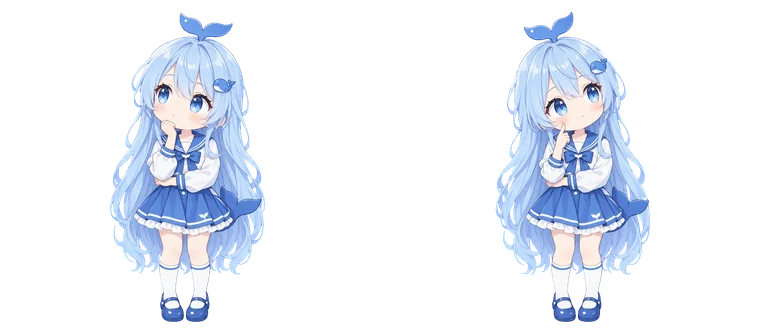
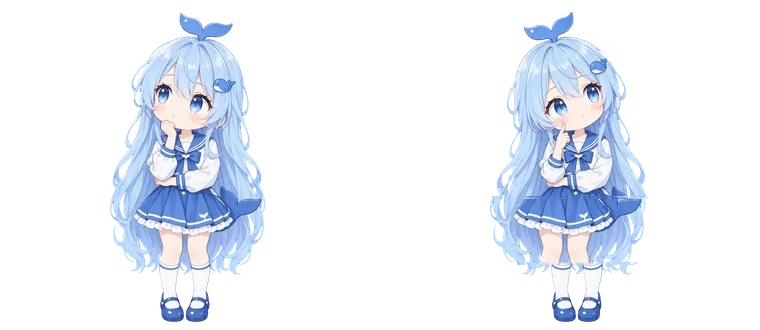
八张立绘的裙摆：同一张动画的两帧之间强制一致（一次性修补）
用户报「我们这些鲸鱼娘动画的裙子上的图案好像都有些不一致」。量九张：两帧之间裙摆那一段
差异 781～4633 个像素，而且不只是图案——模型把裙子本身画成了两种设计（一帧白色荷叶边、
另一帧直摆白线），轮廓差占裙面 9%～37%。

这八张的源图早就不在了，没法用 whale-sprite.py 重切，所以新增一次性工具
tools/whale-freeze-band.py：从裙摆那一段整段取自第一帧（连轮廓一起换，两帧这一块完全一致），
腿和手里的道具不碰。两件事都不写死，切线还要做渐变：

- 切在哪一行：第 182～204 行之间挑"跨线差 ÷ 画面自然差"最小的一条，上下各三行渐变。
  第一帧的裙腰常比第二帧高一两行，硬切就是一条看得见的横线（实测读书那张跨线差 65、
  自然差只有 14）。
- 冻到哪一行：从第 200 行往下找"最后一行宽度还达最宽处 60%"的位置当裙边，再往下是腿。

结果：待命、读书、打字、检查、思考、等太久六张的裙摆差异（781～4633）全部归零；腰部动作
保留（打字 2785→2469，只少被冻住的那五行，手和键盘都在线上）。说话本来就一致（0 个差异），
待命只差 4 个像素。**跑和冲刺按设计不动**：这两张两帧的裙子整体在动（轮廓差占裙面 31.8%、
70.7%），冻了会把画面撕开，而且跑本来就该让裙摆跟着腿荡；跑到髋部那一段的半冻也一并放弃，
半冻不如不动。

接缝复检改成看现象而不是看数字：只在同一帧内部找局部异常行（某行落差超过周围常态的四倍
或 +35），第二帧有、第一帧没有的才算冻出来的缝，七张全过。过程中两次量错了对象，两条教训
（判据别把要修的东西当成不能修的理由；前后对比先确认量的是同一个对象）记在 tasks/lessons.md。

Changed region(s): [[0.6355, 0.5758, 0.8776, 0.8182]]

diff --git a/tools/whale-freeze-band.py b/tools/whale-freeze-band.py
@@ -1,0 +1,158 @@
+#!/usr/bin/env python3
+# -*- coding: utf-8 -*-
+"""把一帧立绘的**裙摆那一段**从第一帧对齐到第二帧。
+
+为什么是一次性工具：一格出两帧的生成图里，两格是各画一遍，裙摆的图案和裙边会各差一点，
+严重的时候干脆是两种设计（一边白色荷叶边、一边直摆白线）。新出的立绘在切图时用
+whale-sprite.py 的 --freeze-below 就能解决；**已经切好的那八张，源图早就不在了**，只能在
+切好的 760×330 上做同样的事，于是有了这个。
+
+用法：python tools/whale-freeze-band.py lib/art/work-2-reading.webp [--dry-run]
+
+两件事都不写死：
+
+* 切在哪一行——在第 182～204 行之间挑"跨线的相邻两行差 ÷ 画面自然的相邻两行差"最小的一行。
+  第一帧的裙腰常常比第二帧高一两行，切线压在那儿就会出现一条看得见的横线（2026-09-28 实测
+  过：读书那条线跨线差 65，而画面自然差只有 14）。
+* 冻到哪一行——从第 200 行往下，找"最后一行宽度还达最宽处 60%"的位置，那就是裙边；再往下
+  是两条腿（或一条抬起来的腿），宽窄会掉下来。腿和手里的道具一律不碰。
+
+跳过条件：这一段两帧的轮廓差占裙面超过 45%。那种是整条裙子在动（跑、冲刺），冻了会把画面
+撕开，不属于缺陷。
+"""
+import sys
+
+from PIL import Image
+
+TOP_MIN, TOP_MAX = 182, 204   # 切线候选
+SKIRT_TOP = 200               # 裙边从这一行往下探
+WIDE_RATIO = 0.60             # 宽度达最宽处这个比例以上，才算"这一段还是裙子"
+ALPHA_TOLERANCE = 0.45        # 轮廓差占裙面超过这个比例，就是在动的裙子，跳过
+FEATHER = 3                   # 切线上下各用几行做渐变，免得留一条硬边
+PANEL_W, PANEL_H = 380, 330
+
+
+def row_step(row_a, row_b):
+    """两行之间：两边都不透明的列上，通道差的平均。没有可比的列就返回 None。"""
+    n = 0
+    total = 0
+    for x in range(PANEL_W):
+        ra, ga, ba, aa = row_a[x]
+        rb, gb, bb, ab = row_b[x]
+        if aa <= 128 or ab <= 128:
+            continue
+        total += max(abs(ra - rb), abs(ga - gb), abs(ba - bb))
+        n += 1
+    return (total / float(n)) if n else None
+
+
+def pick_cut(a, b):
+    """挑一条最看不出接缝的切线，返回（行号，接缝是自然差的几倍）。"""
+    pa, pb = a.load(), b.load()
+    best, best_ratio = TOP_MIN, None
+    for y in range(TOP_MIN, TOP_MAX + 1):
+        nat = row_step([pa[x, y - 1] for x in range(PANEL_W)], [pa[x, y] for x in range(PANEL_W)])
+        seam = row_step([pb[x, y - 1] for x in range(PANEL_W)], [pa[x, y] for x in range(PANEL_W)])
+        if not nat or seam is None:
+            continue
+        ratio = seam / nat
+        if best_ratio is None or ratio < best_ratio:
+            best, best_ratio = y, ratio
+    return best, best_ratio
+
+
+def blend_rows(dst, src, y, alpha):
+    """把 src 的第 y 行按 alpha 混进 dst；透明通道不动（只柔化颜色，不改轮廓）。"""
+    d, s = dst.load(), src.load()
+    if y < 0 or y >= PANEL_H:
+        return
+    for x in range(PANEL_W):
+        sr, sg, sb, sa = s[x, y]
+        dr, dg, db, da = d[x, y]
+        if sa <= 128:
+            continue
+        if da <= 128:
+            d[x, y] = (sr, sg, sb, sa)
+            continue
+        d[x, y] = (int(round(dr + (sr - dr) * alpha)),
+                   int(round(dg + (sg - dg) * alpha)),
+                   int(round(db + (sb - db) * alpha)), da)
+
+
+def skirt_bottom(frame):
+    px = frame.load()
+    widths = [sum(1 for x in range(PANEL_W) if px[x, y][3] > 128) for y in range(SKIRT_TOP, PANEL_H)]
+    widest = max(widths) if widths else 0
+    bottom = SKIRT_TOP
+    for i, n in enumerate(widths):
+        if n >= widest * WIDE_RATIO:
+            bottom = SKIRT_TOP + i
+    return bottom
+
+
+def band_stats(a, b, y0, y1):
+    """这一段里：轮廓不同的像素数、两边都不透明但颜色不同的像素数。"""
+    pa, pb = a.load(), b.load()
+    alpha_diff = colour_diff = 0
+    for y in range(y0, y1 + 1):
+        for x in range(PANEL_W):
+            ra, ga, ba, aa = pa[x, y]
+            rb, gb, bb, ab = pb[x, y]
+            if aa != ab:
+                alpha_diff += 1
+            if aa > 128 and ab > 128 and max(abs(ra - rb), abs(ga - gb), abs(ba - bb)) > 24:
+                colour_diff += 1
+    return alpha_diff, colour_diff
+
+
+def frames(im):
+    return im.crop((0, 0, PANEL_W, PANEL_H)), im.crop((PANEL_W, 0, PANEL_W * 2, PANEL_H))
+
+
+def main():
+    if len(sys.argv) < 2:
+        print('用法：python tools/whale-freeze-band.py 立绘.webp [--dry-run]')
+        return 2
+    path = sys.argv[1]
+    dry = '--dry-run' in sys.argv
+    short = path.replace('\\', '/').split('/')[-1]
+
+    im = Image.open(path).convert('RGBA')
+    a, b = frames(im)
+    bottom = skirt_bottom(a)
+    top, ratio = pick_cut(a, b)
+    alpha_diff, colour_diff = band_stats(a, b, top, bottom)
+    pa = a.load()
+    opaque = sum(1 for y in range(top, bottom + 1) for x in range(PANEL_W) if pa[x, y][3] > 128)
+    share = alpha_diff / float(opaque or 1)
+    print('  %s：第 %d～%d 行（切线挑在 %d，接缝是画面自然差的 %.1f 倍）；轮廓差 %d（%.1f%%），颜色差 %d'
+          % (short, top, bottom, top, ratio or 0, alpha_diff, share * 100, colour_diff))
+    if alpha_diff == 0 and colour_diff == 0:
+        print('    —— 这一段本来就一致，不用动')
+        return 0
+    if share > ALPHA_TOLERANCE:
+        print('    ✗ 轮廓差占 %.1f%% > %.0f%%：整条裙子在动，冻了会撕开，跳过'
+              % (share * 100, ALPHA_TOLERANCE * 100))
+        return 3
+    if dry:
+        print('    （试跑，没写文件）')
+        return 0
+
+    b.paste(a.crop((0, top, PANEL_W, bottom + 1)), (0, top))
+    # 硬切会在切线上留一条看得见的横线（量过：读书那张跨线差是画面自然差的 3.4 倍），
+    # 所以上下各三行做渐变过渡过去。
+    for i in range(1, FEATHER + 1):
+        blend_rows(b, a, top - i, i / float(FEATHER + 1))
+        blend_rows(b, a, bottom + i, 1 - i / float(FEATHER + 1))
+    im.paste(b, (PANEL_W, 0))
+    im.save(path, 'WEBP', quality=92, method=6)
+
+    chk = Image.open(path).convert('RGBA')
+    ca, cb = frames(chk)
+    aa, cc = band_stats(ca, cb, top, bottom)
+    print('    ✓ 已对齐并写回；压缩后再量：轮廓差 %d，颜色差 %d' % (aa, cc))
+    return 0 if cc <= 40 else 4
+
+
+if __name__ == '__main__':
+    sys.exit(main())

diff --git a/docs/character.md b/docs/character.md
@@ -122,3 +122,29 @@ no speech bubbles, no signature, no frame numbers, no dividing line between the 
 行号**按成图坐标**算（0～329，和量颜色用的是同一套坐标），取在手臂最低点之下、裙子起笔之处。
 说话的这张取 **168**：左半边手臂差异在 y164～167 那一档收住，往下是一条很低的平台。切图脚本会打印"原本多少个不一致
 像素 → 现在 0"，不为 0 就不写文件。跑、打字、冲刺这类本来就要动腿的姿势不用加这个参数。
+### 另外八张的裙摆（2026-09-28 一次性修补）
+
+用户报「我们这些鲸鱼娘动画的裙子上的图案好像都有些不一致」。量了九张：两帧之间裙摆那一段
+差异从 781 到 4633 个像素，而且不只是图案——**模型把裙子本身画成了两种设计**（一帧白色荷叶边、
+另一帧直摆白线），连轮廓都不同（占裙面 9%～37%）。
+
+这八张的**源图早就不在了**，没法重切，于是有了一次性工具：
+
+    python tools/whale-freeze-band.py lib/art/work-2-reading.webp
+
+两件事都不写死：
+
+* **切在哪一行**——在第 182～204 行之间挑"跨线的相邻两行差 ÷ 画面自然的相邻两行差"最小的
+  一条。第一帧的裙腰常比第二帧高一两行，切线压在那儿就是一条看得见的横线（实测读书那张
+  跨线差 65、自然差只有 14）。挑完再在切线上下各三行做渐变，免得留硬边。
+* **冻到哪一行**——从第 200 行往下，找"最后一行宽度还达最宽处 60%"的位置当裙边；再往下是
+  两条腿（或一条抬起来的腿），宽窄会掉下来。腿和手里的道具一律不碰。
+
+跳过条件：这一段两帧的轮廓差占裙面超过 45%。那是整条裙子在动，冻了会撕开，不属于缺陷。
+**跑和冲刺两张就是这一类，按设计不动**——跑本来就该让裙摆跟着腿荡。
+
+结果：待命、读书、打字、检查、思考、等太久六张的裙摆差异（781～4633）全部归零，腰部的
+动作保留（打字 2785→2469，只少被冻住的那五行，手和键盘都在线上）。说话本来就一致。
+
+接缝复检不看数字看现象：在**同一帧内部**找局部异常行（某行落差超过周围常态的四倍或 +35），
+第二帧有、第一帧没有的才算冻出来的缝。
